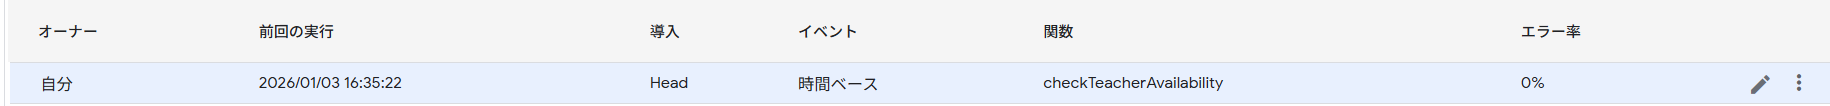
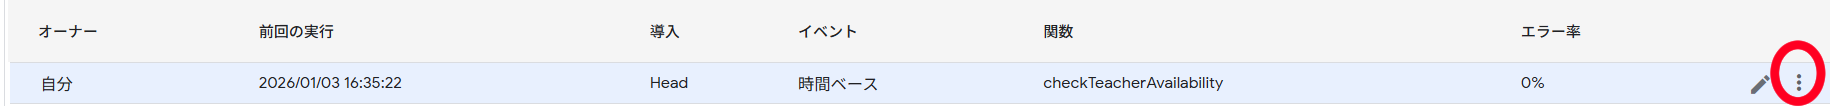
htmlを最新にしました

Changed region(s): [[0.9656, 0.3679, 1.0, 1.0]]

diff --git a/index.html b/index.html
@@ -167,7 +167,7 @@
             <img src="step1_spreadsheet_name.png" alt="名前を付けて準備完了">
             <p>「pamoka_gas」に名前を変えてみました。</p>
            <img src="pamoka_gas.png" alt="名前が変わったところ">
-            <p>再度を開こうとした時、該当のスプレッドシートがすぐ見つけられます。</p>
+            <p>再度開きたい時、該当のスプレッドシートがすぐ見つけられます。</p>
            <img src="tofind.png" alt="名前が変わったところ">
         </div>
 
@@ -175,13 +175,14 @@
             <h2>番外編：監視を止めたいときは？</h2>
             <p>「もう通知はいらない」という時は、GAS画面の左にある<strong>時計マーク（トリガー）</strong>を押して、設定されているトリガーをゴミ箱マークで消します。</p>
             <img src="trigger_button.png" alt="トリガーボタン">
-            <p>右端の3つの点をクリックして「トリガーを削除」を選んでね。</p>
+            <p>右端の3つの点をクリックします。</p>
             <img src="trigger1.png" alt="トリガーの設定表示">
+            <p>「トリガーを削除」を選択します。</p>
             <img src="trigger2.png" alt="トリガーを削除">
-            <p>1人だけ消したい・トリガーの削除はややこしそうだからやりたくない、等という場合はスプレッドシートから講師番号を削除するだけでも監視は止まります。<br>
+            <p>講師を1人だけ消したい・トリガーの削除はややこしそうだからやりたくない、等という場合はスプレッドシートから講師番号を削除するだけでも監視は止まります。<br>
 A列を消す場合は、B列・C列も合わせて削除してください(誤作動防止)。
 </p>
-           <p class="pink-text">※注意：スプレッドシート自体を削除しても、通知は止まりません。必ずトリガーを削除するか、スプレッドシート上から講師番号の削除をお願いします。</p> 
+           <p class="pink-text">※⚠ 注意！ススプレッドシートを削除するだけでは、自動監視（タイマー）は止まりません！ そのままにすると「エラーが発生しました」というメールが毎日届くようになってしまいます。 必ずトリガーを削除してから、シートを削除してください。</p> 
         </div>
 
         <footer>
